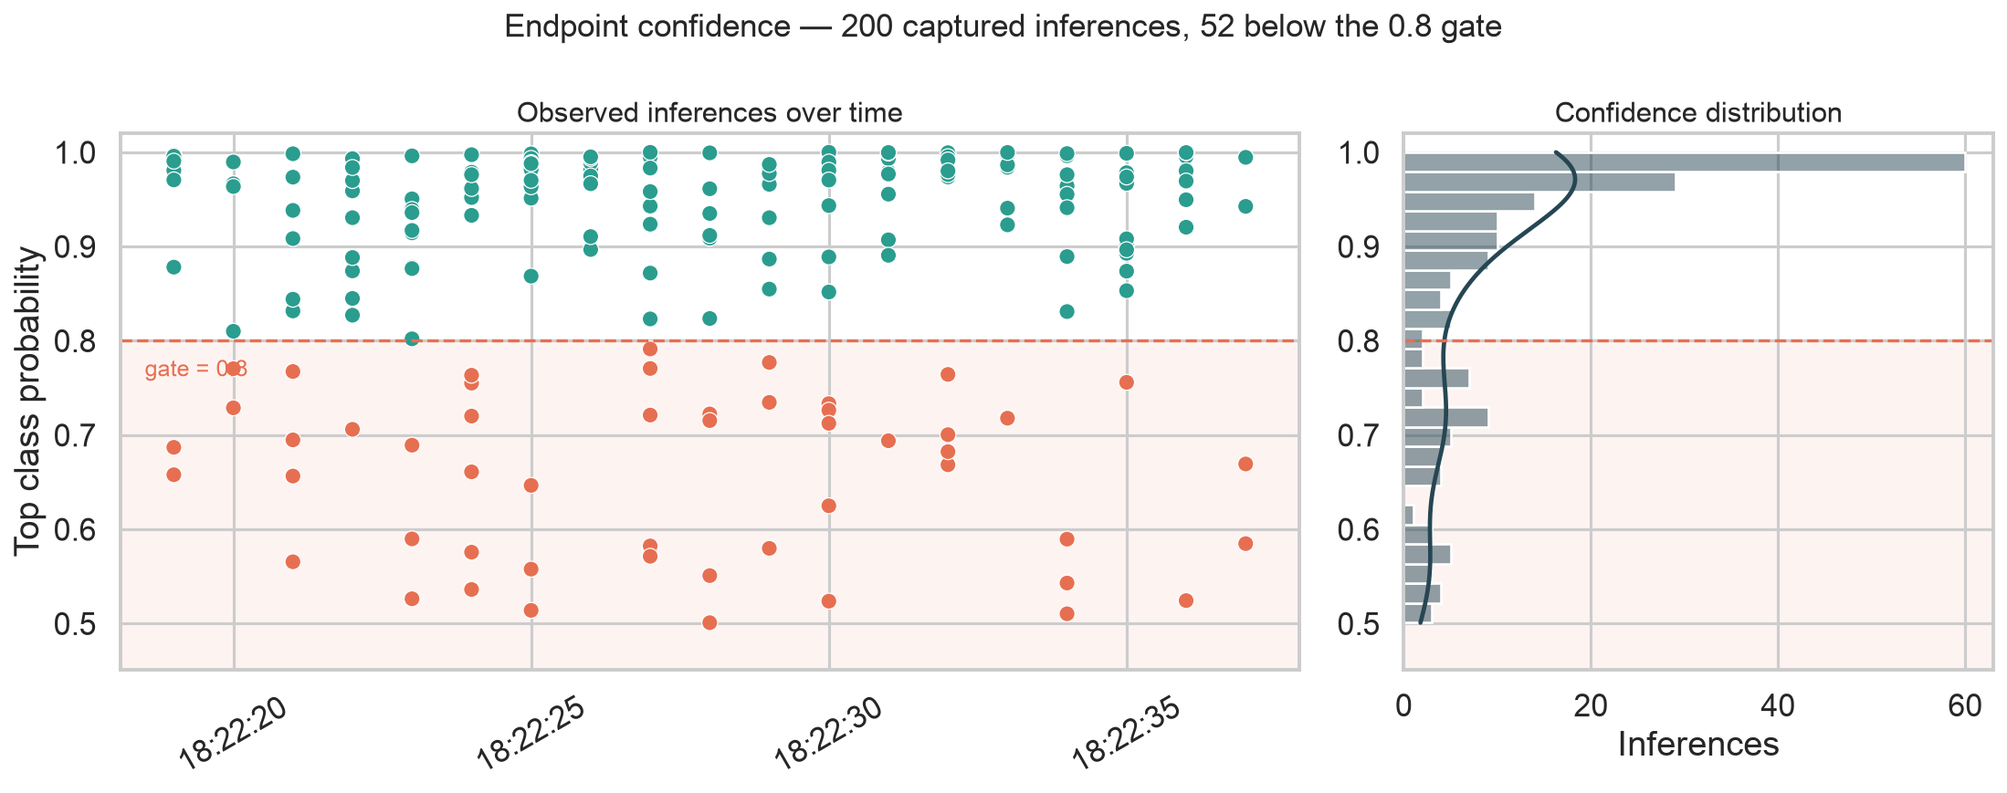
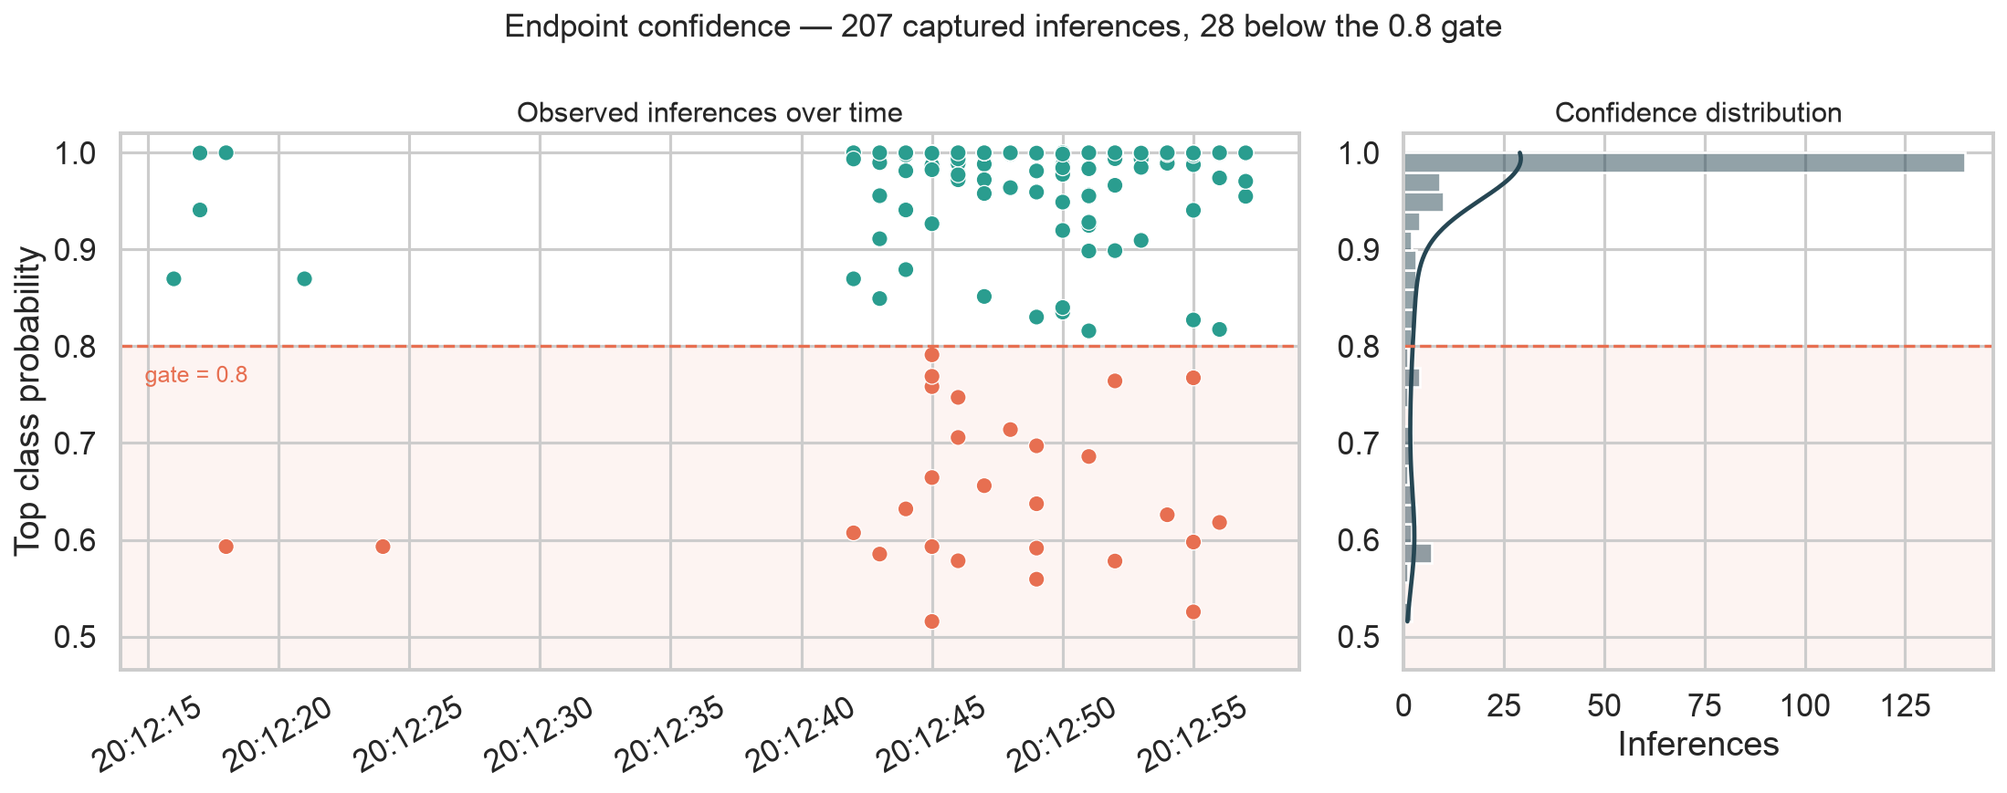
docs: embed the e2e demo and update the README with full documentation

diff --git a/README.md b/README.md
@@ -8,7 +8,7 @@
 <h1 align="center">ML Workflow for Image Classification on AWS</h1>
 
 <p align="center">
-  A serverless, self-monitoring image classification pipeline for Scones Unlimited — SageMaker for training and inference, Lambda + Step Functions for orchestration, and Model Monitor for drift/confidence tracking.
+  A serverless, self-monitoring image classification pipeline for Scones Unlimited. SageMaker for training and inference, Lambda + Step Functions for orchestration, and Model Monitor for drift/confidence tracking.
   <br /><br />
   <a href="https://github.com/DannyLCG/aws_scones_project"><strong>Browse the code »</strong></a>
 </p>
@@ -22,10 +22,12 @@
     <li><a href="#overview">Overview</a></li>
     <li><a href="#results">Results</a></li>
     <li><a href="#dataset">Dataset</a></li>
+    <li><a href="#whats-in-the-repo">What's in the Repo</a></li>
     <li><a href="#architecture--approach">Architecture & Approach</a></li>
     <li><a href="#built-with">Built With</a></li>
-    <li><a href="#getting-started">Getting Started</a></li>
+    <li><a href="#reproduce-the-pipeline">Reproduce the Pipeline</a></li>
     <li><a href="#key-takeaways">Key Takeaways</a></li>
+    <li><a href="#roadmap">Roadmap</a></li>
     <li><a href="#contact">Contact</a></li>
     <li><a href="#acknowledgments">Acknowledgments</a></li>
   </ol>
@@ -35,11 +37,13 @@
 
 ## Overview
 
-Scones Unlimited is a scone-delivery-focused logistics company. The goal is to help Scones Unlimited optimize their operations. To achieve that goal, the company needs to deploy an image classification model that can automatically detect which kind of vehicle delivery drivers have, assigning delivery professionals who have a bicycle to nearby orders and giving motorcyclists orders that are farther away. This project builds the image classification model behind that routing decision — telling **bicycles** apart from **motorcycles** — and, more importantly, wraps it in the kind of event-driven, observable architecture a model needs before another system or team can depend on it.
+Scones Unlimited is a scone-delivery-focused logistics company. The goal is to help Scones Unlimited optimize their operations. To achieve that goal, the company needs to deploy an image classification model that can automatically detect which kind of vehicle delivery drivers have, assigning delivery professionals who have a bicycle to nearby orders and giving motorcyclists orders that are farther away. **This project builds the image classification model** behind that routing decision — telling **bicycles** apart from **motorcycles** — and, more importantly, **wraps it in the kind of event-driven, observable architecture a model needs before another system or team can depend on it**.
 
 Rather than a one-off training notebook, **the deliverable is an end-to-end ML workflow**: data staged in S3, a SageMaker image-classification model trained and deployed to a real-time endpoint, multiple chained **AWS Lambda** functions orchestrated by **AWS Step Functions**, and **SageMaker Model Monitor** capturing every request/response pair so degradation or drift can be caught after deployment — not just at training time.
 
-This project was submitted as part of the **Udacity AWS Machine Learning Engineer Nanodegree** ("Build a Machine Learning Workflow for Scones Unlimited on Amazon SageMaker").
+The original submission was a single notebook. **Everything has since been rebuilt as infrastructure-as-code**: the Lambda functions, the endpoint, and the state machine are now defined in **AWS CDK** and created with one command, training runs from a script instead of a notebook cell, and the whole pipeline can be stood up and torn down on demand. That last part matters because a GPU-trained model behind a real-time endpoint is only affordable if one can destroy it when we're done.
+
+*This project was originally submitted as part of the **Udacity AWS Machine Learning Engineer Nanodegree** ("Build a Machine Learning Workflow for Scones Unlimited on Amazon SageMaker"). `starter.ipynb` is kept in the repo as the record of that first version.*
 
 <p align="right">(<a href="#readme-top">back to top</a>)</p>
 
@@ -47,15 +51,32 @@ This project was submitted as part of the **Udacity AWS Machine Learning Enginee
 
 ## Results
 
-The image-classification model, trained on only 1,000 labeled images, topped **0.8 validation accuracy**. That threshold was carried into production as the confidence gate in the `filterPredictions` Lambda: any inference below `0.8` fails the Step Function execution instead of silently passing a low-confidence label downstream.
+The clip below summarizes the whole workflow: training the model, deploying the endpoint and the Lambda functions, feeding images through the pipeline, reading back what the endpoint recorded, and destroying everything that costs money. It takes about 45 minutes to run (the waiting is cut out).
 
-Both outcomes were exercised end-to-end using the state machine below, fed with real payloads sampled from `./test`:
+![End-to-end demo](docs/demo.gif)
+
+The image-classification model, trained on only 1,000 labeled images, reached **0.8 validation accuracy**. That threshold was carried into production as the confidence gate in the `filterPredictions` Lambda function: any inference below `0.8` fails the Step Function execution instead of silently passing a low-confidence label downstream.
+
+`scripts/run_executions.py` feeds a subsample of the test dataset until the state machine detects both successful and failed executions.
 
 | Successful execution | Failed execution (confidence below threshold) |
 |---|---|
-| ![Successful Step Function execution](step_function_screenshot.png) | ![Failed Step Function execution](step_function_fail_screenshot.png) |
+| ![Successful Step Function execution](docs/step_function_pass_ss.png) | ![Failed Step Function execution](docs/step_function_fail_ss.png) |
 
-Model Monitor's captured endpoint I/O was also used inside `starter.ipynb` to plot inference confidence over time and to render sampled input images next to their predicted labels — the visualization workflow a production team would build on to watch for drift.
+Data Capture recorded every inference the endpoint served. Reading those records back with `scripts/analyze_capture.py` gives the inference confidence distribution view — not training metrics, but a visualization that a production team would use to watch for drift:
+
+| Metric | Value |
+|---|---|
+| Captured inferences | 207 |
+| Cleared the `0.8` gate | 179 |
+| Rejected | 28 (13.5%) |
+| Confidence range | 0.5156 – 1.0000 |
+| Median confidence | 0.9992 |
+| Predicted labels | 109 motorcycle / 98 bicycle |
+
+![Inference confidence](docs/inference_confidence.png)
+
+*207 rather than 200 because `scripts/run_executions.py` had already sent 7 images through the endpoint while looking for one the model was confident about and one it wasn't.*
 
 <p align="right">(<a href="#readme-top">back to top</a>)</p>
 
@@ -72,15 +93,32 @@ Model Monitor's captured endpoint I/O was also used inside `starter.ipynb` to pl
 
 ---
 
+## What's in the Repo
+
+A short map of where everything lives. The tests are the one part that runs without an AWS account:
+
+- `docs/demo.gif` — the entire pipeline being built, run, and destroyed
+- `infra/stacks/` — the CDK stacks: data, endpoint, Lambda functions, state machine
+- `src/lambdas/` — the three Lambda functions, one folder each
+- `scripts/` — data preparation, training, running the pipeline, reading back captured traffic
+- `tests/` — unit tests with AWS mocked out: `uv run pytest tests/unit -q`
+- `data/train/` and `data/test/` — the 1,000/200 filtered CIFAR-100 images
+- `docs/architecture.png` — the infrastructure diagram, generated from the CDK app itself
+- `starter.ipynb` — the original notebook version, kept as a record of where this started
+
+<p align="right">(<a href="#readme-top">back to top</a>)</p>
+
+---
+
 ## Architecture & Approach
 
-**1. Data staging (ETL).** `starter.ipynb` downloads CIFAR-100, unpickles the `train`/`test`/`meta` archives, and filters down to just the `bicycle` (label `8`) and `motorcycle` (label `48`) classes. Each row's raw pixel bytes are reshaped into a 32×32×3 array and written out as a PNG (see `scripts/ImageDownload.py` and the `save_images`/`filter_dataset` helpers in the notebook). Images and their `.lst` manifest files are synced to S3 for training.
+**1. Data staging (ETL).** The 1,200 filtered CIFAR-100 images live in the repo, but SageMaker also needs a manifest telling it which class each image belongs to. `scripts/prepare_data.py` builds those manifests from CIFAR's own labels which turned out to be the most reliable approach since the filenames are descriptive rather than categorical: `velocipede` is a bicycle, `minibike` is a motorcycle, and `bike` shows up under **both**. Grouping by filename would quietly mislabel a handful of images. `scripts/train.py` then syncs the images and manifests to S3.
 
-**2. Model training & deployment.** A SageMaker built-in `image-classification` algorithm is trained via the `Estimator` API on a single `ml.p3.2xlarge` instance (`image_shape=3,32,32`, `num_classes=2`, `num_training_samples=1000`), then deployed to a real-time endpoint on `ml.m5.xlarge`. `DataCaptureConfig` is attached at deploy time with 100% sampling, so every request and response the endpoint sees is written to S3 for **Model Monitor**.
+**2. Model training & deployment.** `scripts/train.py` runs SageMaker's built-in `image-classification` algorithm on a single GPU instance and writes the trained model back to S3. Training was deliberately done *outside* the infrastructure code since CloudFormation has no way to create a training job, so it belongs in a script rather than a stack. But the endpoint that serves the model *is* infrastructure, with **Data Capture** enabled so every request and response the endpoint sees is written to S3 without any logging code in the inference path. 
 
-**3. Serverless orchestration.** Three single-purpose Lambda functions (`scripts/LAMBDA/`) are chained together with **Step Functions** (`SconestateMachine_definition.json`):
+**3. Serverless orchestration.** Three single-purpose Lambda functions are chained together with **Step Functions**:
 
-![Step Function graph](stepfunctions_graph.png)
+![Step Function graph](docs/step_function_definition.png)
 
 | Lambda | Responsibility |
 |---|---|
@@ -88,9 +126,21 @@ Model Monitor's captured endpoint I/O was also used inside `starter.ipynb` to pl
 | `predictImageLabel` | Invokes the SageMaker endpoint with the decoded image and attaches the raw inference probabilities |
 | `filterPredictions` | Rejects the execution (raises `THRESHOLD_CONFIDENCE_NOT_MET`) unless the top inference probability clears `0.8` |
 
-Each function's folder includes a matching JSON test event (e.g. `s3_input_image.json`, `imageSerializerOutput.json`, `predictImageLabelOutput.json`) so each step can be tested individually from the AWS Console before wiring them into the state machine — see `scripts/LAMBDA/README.md`.
+Each function was tested on its own before any of it reaches AWS. `tests/fixtures/` holds real payloads captured from the running pipeline, the output of one function is the input to the next so the unit tests in `tests/unit/` assert against the shapes the functions actually exchange. Running them requires no AWS account.
 
-**4. Monitoring.** Because the endpoint captures 100% of traffic, `starter.ipynb` pulls the JSONLines capture files back down (`S3Downloader` + `jsonlines`) and builds visualizations of inference confidence over time and sampled predictions — the basis for spotting model degradation without redeploying anything.
+**4. Monitoring.** Because the endpoint records 100% of its traffic, `scripts/analyze_capture.py` can read those records straight back out of S3 and plot how confident the model was on every inference it served. The confidence view shown in [Results](#results) **shows how confident the model was in production, so we can easily detect confidence drifting from the 0.8 validation threshold it shipped with.**.
+
+### Infrastructure
+
+Every component of the infrastructure was defined in AWS CDK under `infra/stacks/` .
+
+*The data stack is persistent and nearly cost-free, while the endpoint, Lambda, and state machine stacks are deployed for a run and destroyed afterwards.*
+
+[![Architecture diagram](docs/architecture.png)](docs/architecture.png)
+
+*Generated from the CDK app itself using [`cdk-dia`](https://github.com/pistazie/cdk-dia). It reads the synthesized cloud assembly rather than a live account, so it stays accurate without anything deployed.*
+
+Each line is a real CloudFormation export/import produced by passing constructs between stacks. 
 
 <p align="right">(<a href="#readme-top">back to top</a>)</p>
 
@@ -99,42 +149,64 @@ Each function's folder includes a matching JSON test event (e.g. `s3_input_image
 ## Built With
 
 * [![Python][python-badge]][python-url]
-* [![Jupyter][jupyter-badge]][jupyter-url]
 * [![AWS][aws-badge]][aws-url]
 * [![Pandas][pandas-badge]][pandas-url]
 * [![NumPy][numpy-badge]][numpy-url]
+* [![Jupyter][jupyter-badge]][jupyter-url]
 
-**AWS services:** SageMaker (Estimator training, real-time endpoint, Model Monitor / Data Capture) · Lambda · Step Functions · S3 · IAM
+**AWS services:** SageMaker (training jobs, real-time endpoint, Data Capture) · Lambda · Step Functions · S3 · IAM · CloudFormation
+
+**Tooling:** AWS CDK (Python) for the infrastructure · boto3 for the training job · pytest + moto for tests that never touch AWS · uv for dependencies
 
 <p align="right">(<a href="#readme-top">back to top</a>)</p>
 
 ---
 
-## Getting Started
+## Reproducing the Pipeline
 
-Depending on the outcome, there are two ways to use this repo:
-- **Tier 1** browses the workflow's artifacts locally — no AWS account needed — to inspect the code, sample data, and proof-of-execution screenshots.
-- **Tier 2** reproduces the **full cloud pipeline** (training, deployment, Lambda + Step Functions orchestration, Model Monitor) and requires an AWS account, **which incurs cost**.
+> **Prerequisites:** an AWS account, the [AWS CDK CLI](https://docs.aws.amazon.com/cdk/v2/guide/getting_started.html), and [uv](https://docs.astral.sh/uv/). No SageMaker domain or notebook instance needed — the pipeline is created from your terminal. A full run costs roughly **$0.30**: one GPU training job plus about half an hour of endpoint time.
 
-### Tier 1 — Browse the workflow locally (no AWS required)
+- **Bootstrap the region (first-time only):**
 
-This is a notebook-and-Lambda-driven AWS project rather than a standalone script, so there's no local inference path — but everything needed to understand and audit the workflow is in the repo:
+*This step requires administrator permissions. If you don't have those, ask an administrator to run this command for you.*
 
-- `starter.ipynb` — the full ETL → training → deployment → monitoring notebook
-- `data/train/` and `data/test/` — the 1,000/200 filtered CIFAR-100 images used for training and as Step Function test payloads
-- `scripts/LAMBDA/` — the three Lambda functions' source and their JSON test events
-- `SconestateMachine_definition.json` — the Step Functions state machine definition
-- `step_function_screenshot.png` / `step_function_fail_screenshot.png` / `stepfunctions_graph.png` — proof of a passing and a threshold-failing execution, plus the state machine graph
+```bash
+cdk bootstrap aws://<account-id>/us-east-1 --termination-protection
+```
 
-### Tier 2 — Reproduce the pipeline on AWS (AWS account required)
+**Why is this necessary?**
 
-> **Prerequisites:** an AWS account, a SageMaker domain (Studio or a notebook instance) with an execution role, and an S3 bucket. Training jobs, the real-time endpoint, and Lambda/Step Functions invocations all incur cost.
+CDK does not deploy the infrastructure directly. It packages up your stack (files like Lambda code, plus the CloudFormation template it generates) and needs somewhere in your AWS account to stash that stuff and a trusted identity to act on your behalf while deploying it. The "bootstrapping" process sets up the necessary infrastructure for CDK to work - a staging bucket, an ECR repository, and IAM roles. This is done per region because those resources are regional, so any region you deploy into needs its own copy of this scaffolding before a `cdk deploy` can succeed there.
 
-1. Open `starter.ipynb` on a SageMaker notebook instance (tested on `ml.t3.medium`, `Python 3 (Data Science)` kernel) and run the ETL cells to stage data in your own bucket — swap `odlo-scones-bucket` for it.
-2. Run the training and deployment cells to fit the `image-classification` estimator and deploy the endpoint with `DataCaptureConfig` enabled.
-3. Deploy the three functions in `scripts/LAMBDA/` to AWS Lambda, updating the `ENDPOINT` constant in `predictImageLabel/lambda_function.py` to your deployed endpoint name. Use each folder's JSON file to test the function individually in the console.
-4. Recreate the state machine from `SconestateMachine_definition.json` in Step Functions, replacing the Lambda ARNs (account ID / region / function names) with your own.
-5. Generate test executions with `generate_test_case()` in the notebook, run them against the state machine, then pull the Model Monitor capture data back down to visualize inference confidence over time.
+Something worth mentioning: Because the bootstrapping process creates IAM roles, AWS lists `iam:*` among [the minimum permissions the bootstrapping identity needs](https://docs.aws.amazon.com/cdk/v2/guide/bootstrapping-env.html#bootstrapping-env-permissions) so **there's no least-privilege version of this step**, and it's a one-time administrator task rather than something day-to-day deploys should be able to do.
+
+- **Then, from the repo root:**
+
+```bash
+# 1. Deploy the Data Stack
+# Leave this one up between runs, it costs about half a cent a month
+# and it holds the trained model
+cd infra && cdk deploy SconesDataStack && cd ..
+
+# 2. Run the training job
+# Uploads the images, runs the job, prints where the model is stored
+uv run python scripts/train.py
+
+# 3. Build the pipeline around that model: endpoint, Lambda functions, state machine. Paste the S3 path step 2 printed.
+cd infra && cdk deploy SconesEndpointStack SconesLambdaStack SconesStepFunctionsStack \
+  -c model_artifact=s3://.../model.tar.gz && cd ..
+
+# 4. Serve the pipeline: sends a batch of images to the endpoint until you get a passing and a failing execution
+uv run python scripts/run_executions.py
+
+# 5. Read back what the endpoint recorded and draw the confidence plot
+uv run python scripts/analyze_capture.py
+
+# 6. Tear down everything that costs
+cd infra && cdk destroy SconesStepFunctionsStack SconesEndpointStack SconesLambdaStack
+```
+
+Steps 1 and 2 only need repeating if you want a fresh model; steps 1–6 are the cycle the demo above shows. `scripts/prepare_data.py` regenerates the label manifests from CIFAR-100, but its output is committed, so you can skip it.
 
 <p align="right">(<a href="#readme-top">back to top</a>)</p>
 
@@ -142,9 +214,24 @@ This is a notebook-and-Lambda-driven AWS project rather than a standalone script
 
 ## Key Takeaways
 
-- **A confidence threshold turns a probabilistic output into a binary routing decision.** `filterPredictions` doesn't just pass data along — it fails the Step Function execution outright when the top inference is below `0.8`, so downstream systems only ever see predictions the pipeline is confident enough to act on.
-- **Per-function JSON test fixtures make a chained pipeline debuggable.** Each Lambda folder ships the exact event shape it expects/produces, so any stage can be validated in isolation from the AWS Console before trusting the full state machine.
-- **Data Capture removes the need for custom logging.** Attaching `DataCaptureConfig` at deploy time was enough to get 100% of endpoint I/O into S3 in JSONLines format, ready for the drift/confidence visualizations built in the notebook — no instrumentation code in the inference path itself.
+- The project now presents the pipeline as full Infrastructure as Code (IaC), not only making it **easy to deploy and destroy**, but also to **version and share**.
+- **A confidence threshold turns a probabilistic output into a binary routing decision.** `filterPredictions` doesn't just pass data along, it is designed to fail the Step Function execution whenever the inference is below `0.8`, so **downstream systems only ever see predictions the pipeline is confident enough to act on**.
+- **Real captured payloads make a chained pipeline testable.** Every fixture in `tests/fixtures/` is an actual payload from the running pipeline, so the tests assert against the shapes the functions actually exchange rather than hand-written guesses — and they can run offline in under a second.
+- **Data Capture removes the need for custom logging.** Switching it on at deploy time is enough to capture the production traffic with zero logging code in the inference path because Data Capture does it at the infrastructure layer. Essentially, it gets every request and response into S3, so drift detection doesn't depend on someone remembering to add a log line.
+- **Infrastructure that can be destroyed is sustainable infrastructure.** Because the endpoint and everything around it are defined in CDK, deploying the pipeline requires a single command and removing it, another. Thanks to that, **this pipeline costs just a few cents (about $0.30) instead of risking to leave a GPU-backed endpoint running by accident, and with this safety is also practical to test the whole thing end to end, repeatedly**. 
+
+<p align="right">(<a href="#readme-top">back to top</a>)</p>
+
+---
+
+## Future Opportunities
+
+
+- **Automate retraining with SageMaker Pipelines.** The pipeline is deployed as infrastructure-as-code, but training still sits outside it (deliberately), since `AWS::SageMaker::TrainingJob` is registered with CloudFormation as **`NON_PROVISIONABLE`**, meaning no stack can create a training job. The native solution is to use `SageMaker Pipelines`: `AWS::SageMaker::Pipeline` *is* provisionable, so a CDK-defined pipeline can chain training → evaluation → model registration, **with the endpoint stack deploying whichever model version gets approved in the Model Registry.** This is the pattern AWS's own [`cdk-pipelines-deploy-sagemaker-endpoint`](https://github.com/aws-samples/cdk-pipelines-deploy-sagemaker-endpoint) sample uses: CDK owns the endpoint, the registry owns the artifact, and approval events trigger deployment.
+- **Schedule Model Monitor and alarm on prediction drift**. The endpoint already captures 100% of traffic, so a useful addition would be to schedule Model Monitor against the output distribution and wire a CloudWatch alarm on Prediction drift (confidence degradation). 
+- **Detecting data drift.** [Model Monitor computes statistics on tabular data only](https://docs.aws.amazon.com/sagemaker/latest/dg/model-monitor.html). For an image-classification endpoint its built-in monitors can baseline the *output probabilities but not the image inputs*. So in case we want to know whether incoming images resemble the training distribution, there's no way to baseline those images. **Closing that gap means a custom monitoring container that computes image-level statistics** (e.g., embedding or pixel-histogram distributions) against a training-set baseline.
+- **Generate drift reports with [Evidently](https://www.evidentlyai.com/ml-monitoring) once the endpoint sees sustained traffic.** Evidently is an open-source standard for ML observability. The downside is that it compares a reference dataset against a current one using statistical tests. Given the couple of hundred inferences this project generates over time, that tool would be overkill since those tests would report noise rather than drift. It its worth using it when we have a real traffic history to compare against, not before.
+- **Add CI:** run the unit tests and `cdk synth` on every push, so infrastructure changes are validated before they ever reach AWS.
 
 <p align="right">(<a href="#readme-top">back to top</a>)</p>
 
